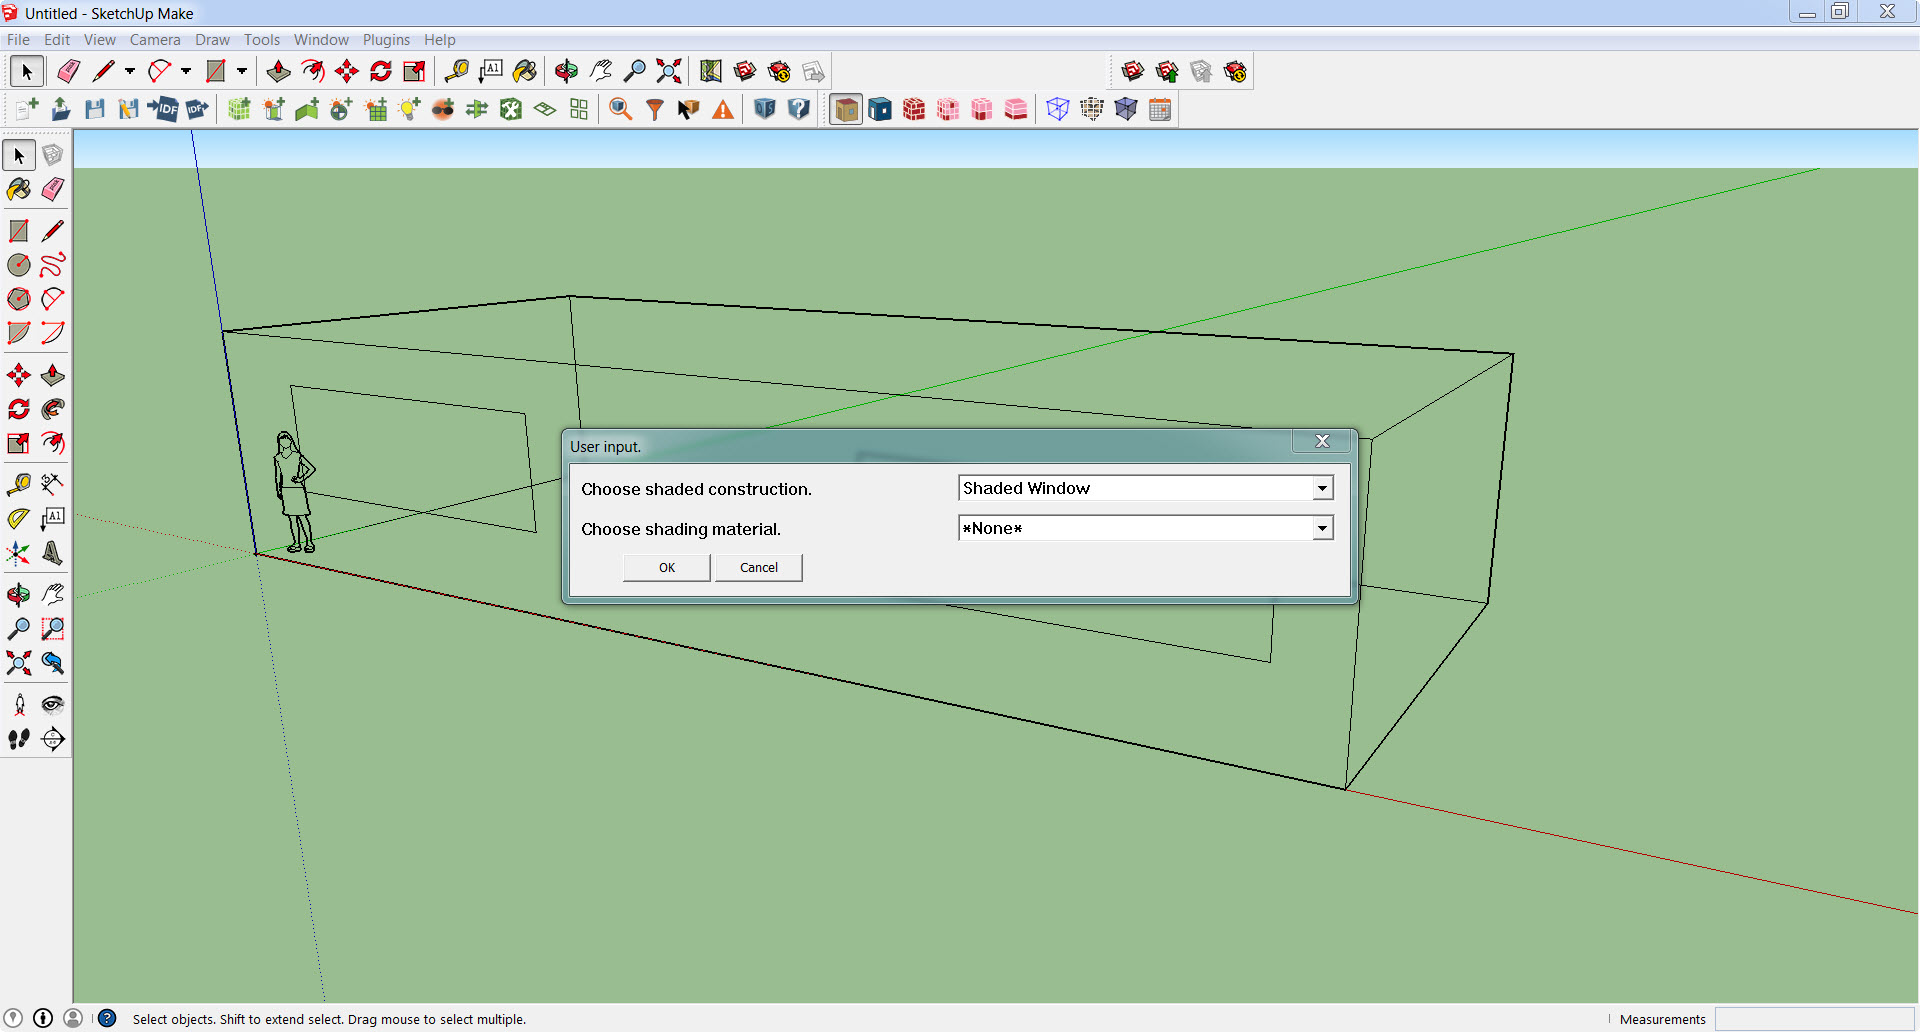
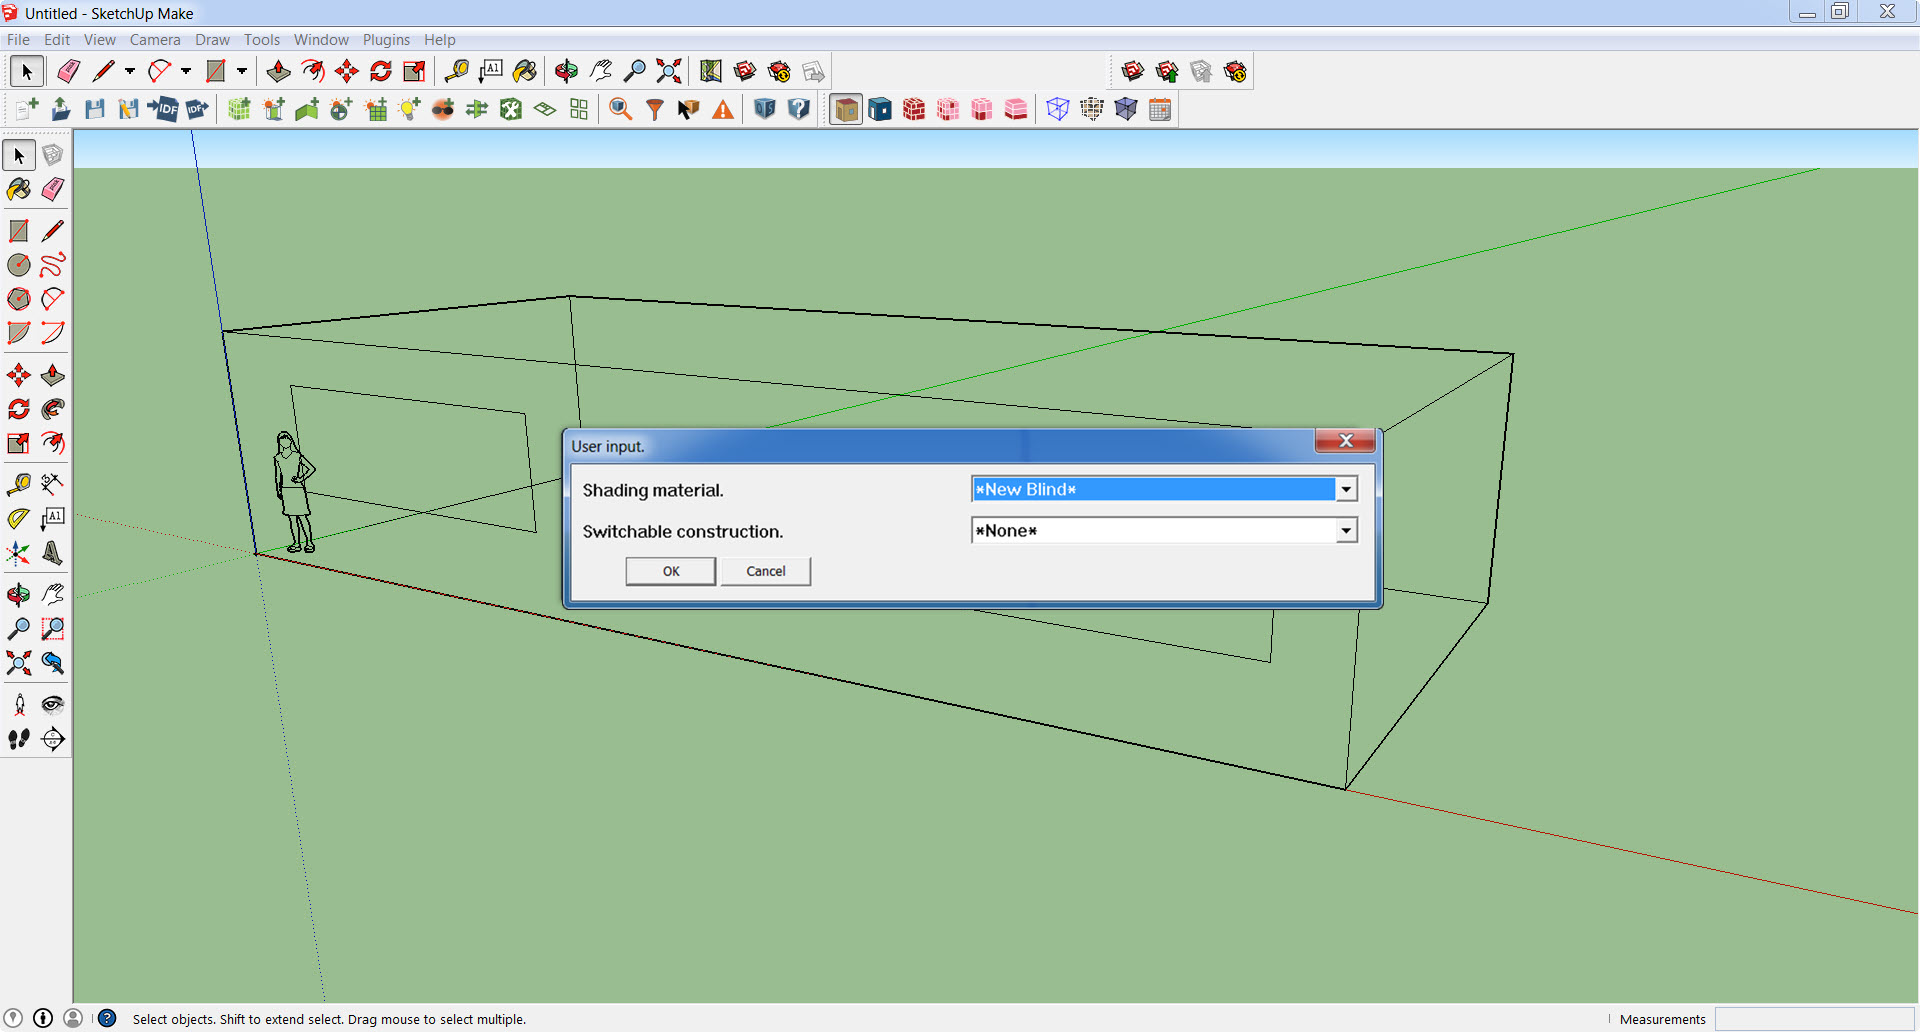
Update documentation

Changed region(s): [[0.2812, 0.4031, 0.7188, 0.5891]]

diff --git a/tutorials/radiance_tutorial/index.html b/tutorials/radiance_tutorial/index.html
@@ -257,9 +257,10 @@
         <div class="col-md-9" role="main">
           <h1>Radiance and OpenStudio</h1>
 
-<p>This tutorial explains how to use <a href="http://www.radiance-online.org/">Radiance</a> to simulate the daylight ingress in your OpenStudio model, allowing for higher fidelity simulations of daylighting-related energy efficiency measures. For OpenStudio <a href="https://github.com/NREL/OpenStudio/releases/tag/v1.7.0">v1.7.0</a>, added support for window shades and wall thickness has increased the utility of the Radiance simulation option in the OpenStudio application. </p>
+<p>This tutorial explains how to use <a href="http://www.radiance-online.org/">Radiance</a> to simulate the daylight ingress in your OpenStudio model, allowing for higher fidelity simulations of daylighting-related energy efficiency measures. </p>
+<p>For OpenStudio <a href="https://github.com/NREL/OpenStudio/releases/tag/v1.9.0">v1.9.0</a>, the Radiance simulation option has been refactored (moved) to a measure, eliminating the "daylight simulation engine" selection radio buttons from the app, and modifying the workflow slightly. We've also added support for more shading options, including daylight redirecting louvers. </p>
 <h2 id="workflow">Workflow</h2>
-<p>This tutorial describes the workflow for using OpenStudio (the plug-in and the application) to perform a <a href="http://climate-based-daylighting.com/doku.php?id=academic:climate-based-daylight-modelling">climate-based daylight simulation</a>, using Radiance as the lighting simulation engine (in lieu of EnergyPlus' daylight simulation options). For implementation details, and caveats, refer to the OpenStudio-Radiance Reference Guide.</p>
+<p>This workflow uses OpenStudio (the plug-in and the application) to perform a <a href="http://climate-based-daylighting.com/doku.php?id=academic:climate-based-daylight-modelling">climate-based daylight simulation</a>, using Radiance as the lighting simulation engine (in lieu of EnergyPlus' daylight simulation options). For implementation details, and caveats, refer to the OpenStudio-Radiance Reference Guide.</p>
 <p>The process for using Radiance for daylighting analysis in OpenStudio is not dissimilar from using EnergyPlus. The basic steps are as follows, with the required applications in parentheses:</p>
 <h3 id="1-create-or-import-building-geometry-define-thermal-zones-spaces-sketchup-plug-in">1. Create (or Import) Building Geometry, Define Thermal Zones &amp; Spaces (SketchUp Plug-in)</h3>
 <p>Many of the Radiance-related elements are not directly accessible from the OpenStudio Application, so regardless of whether you are starting your geometric model from scratch or importing from another CAD tool, you must start in the SketchUp Plugin. </p>
@@ -280,7 +281,7 @@
 <ul>
 <li>Illuminance map (primary)</li>
 <li>Daylighting control point (primary)</li>
-<li>Define shading controls</li>
+<li>Define shading controls, using the </li>
 <li>Assign shading controls</li>
 </ul>
 <p>Optionally to these spaces, add:</p>
@@ -294,12 +295,13 @@
 <li>Assign primary Illuminance Map to daylit Thermal Zone(s)</li>
 <li>Assign primary Daylighting Control Point to Thermal Zone</li>
 <li>Thermal zone load percentages to daylighting controls</li>
-<li>Attach shading controls to windows (user script)</li>
 </ul>
 <h3 id="5-run-simulation-openstudio-application">5. Run Simulation (OpenStudio Application)</h3>
 <ul>
-<li>Attach a weather file</li>
-<li>Select "Radiance" as the daylight simulation engine on the Run Tab</li>
+<li>Attach a weather file (Site Tab)</li>
+<li>Select Radiance simulation parameters (Simulation Settings Tab)</li>
+<li>Add the "Radiance Daylighting Measure" to the model's workflow (Measures Tab)</li>
+<li>Run the analysis (Run Tab (<em>duh</em>))</li>
 </ul>
 <p>The Radiance daylighting results will inform the electric lighting load schedules and will be automatically used in the EnergyPlus model</p>
 <h3 id="6-review-results-results-viewer-excel-et-al">6. Review Results (Results Viewer, Excel, et al.)</h3>

diff --git a/reference/refguide_radiance/index.html b/reference/refguide_radiance/index.html
@@ -250,6 +250,7 @@
           <h1 id="openstudio-radiance-reference-guide">OpenStudio-Radiance Reference Guide</h1>
 <p>This reference guide explains the methods used in OpenStudio to utilize <a href="http://www.radiance-online.org/">Radiance</a> to simulate the daylight ingress in your OpenStudio model, allowing for higher fidelity simulations of daylighting-related energy efficiency measures. Radiance is not constrained to simple geometry, and the OpenStudio model supports interior architectural detail such as <a href="../../../reference/sketchup_plugin_interface#NewInteriorPartitionSurfaceGroup">interior partition surfaces</a> (for representing columns, soffits, furniture, etc) and air walls (for eliminating thermal zone boundaries that do not correspond to any actual building architecture). This allows for a more accurate characterization of the spatial distribution of daylight in the OpenStudio model. </p>
 <p>For OpenStudio <a href="https://github.com/NREL/OpenStudio/releases/tag/v1.7.0">v1.7.0</a>, added support for window shades and wall thickness has increased the utility of the Radiance simulation option in the OpenStudio application. </p>
+<p>With OpenStudio <a href="https://github.com/NREL/OpenStudio/releases/tag/v1.9.0">v1.9.0</a>, the Radiance simulation option has been refactored (moved) to a measure, eliminating the "daylight simulation engine" selection radio buttons from the app, and modifying the workflow slightly. </p>
 <h2 id="overview">Overview</h2>
 <p>In short, OpenStudio manages the model translation, simulation, and results processing of an OpenStudio building model (.osm), deriving geometry, materials, loads, schedules, and site information from the OSM. An annual climate-based daylight simulation is performed, new lighting load schedules are generated and embedded in the osm for the subsequent EnergyPlus simulation. In addition, a number of daylight metrics are calculated for those spaces with daylighting objects in them (illuminance maps and glare sensors), and are reported in a comma-delineated format, suitable for import and plotting in the modeler's tool of choice. </p>
 <h2 id="modeling-shading-controls-with-the-3-phase-method">Modeling Shading Controls with the 3-Phase Method</h2>
